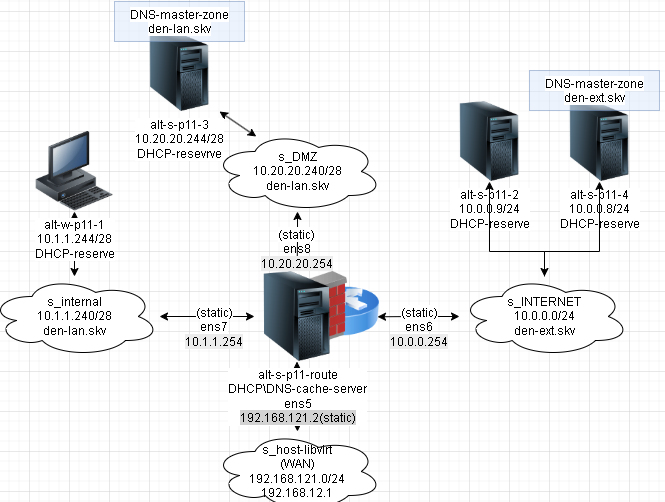
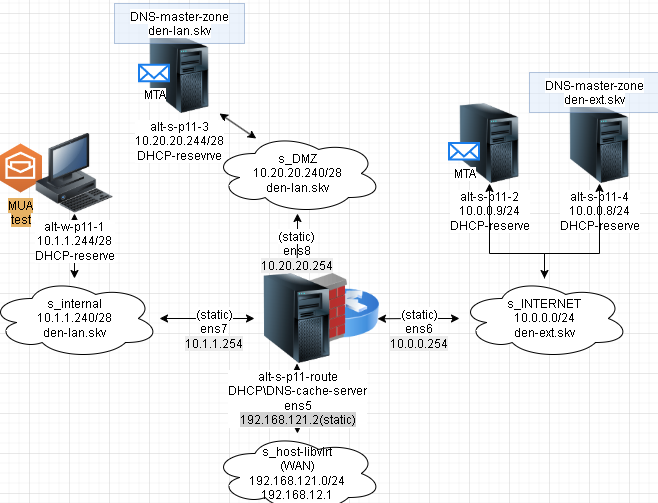
оформление для ADM6, lab5 mailed

diff --git a/adm6/lab5/README.md b/adm6/lab5/README.md
@@ -751,7 +751,9 @@ sadmin@10.1.1.244 \
 
 apt-get update \
 && apt-get install -y \
-bind-utils
+bind-utils \
+postfix \
+mailx
 
 # установка имени узла с доменным суффиксом 
 hostnamectl hostname \
@@ -772,7 +774,7 @@ host ya.ru
 #### Настройка hostname
 ```bash
 # вход на
-### 10.0.0.9 - alt-w-p11-1 - internal
+### 10.0.0.9 - alt-s-p11-2 - s_internet
 ssh -t \
 -i ~/.ssh/id_alt-adm6_2026_host_ed25519 \
 -J sadmin@192.168.121.2 \
@@ -790,9 +792,11 @@ den-ext.skv
 
 apt-get update \
 && apt-get install -y \
-bind-utils
+bind-utils \
+postfix \
+mailx
 
-# проверка с клиентского хоста alt-w-p11-1
+# проверка с клиентского хоста alt-s-p11-2
 cat /etc/resolv.conf
 host den-ext.skv
 host den-lan.skv
@@ -817,6 +821,174 @@ git add . .. ../.. \
 git remote -v
 
 git commit -am 'оформление для ADM6, lab5 dns_master_ext_upd3' \
+&& git push \
+--set-upstream \
+altlinux \
+main \
+&& git push \
+--set-upstream \
+altlinux_gf \
+main
+```
+
+### на узле alt-s-p11-3 (`s_dmz`) 
+#### Настройка postfix в режиме сервера для домена den-lan.skv
+```bash
+# вход на
+### 10.20.20.244 - alt-s-p11-3 - DMZ
+ssh -t \
+-i ~/.ssh/id_alt-adm6_2026_host_ed25519 \
+-J sadmin@192.168.121.2 \
+-o StrictHostKeyChecking=accept-new \
+sadmin@10.20.20.244 \
+"su -"
+
+apt-get update \
+&& apt-get install -y \
+bind-utils \
+postfix \
+mailx
+
+# первый запуск службы для инициализации службы
+systemctl start \
+postfix \
+&& systemctl stop \
+postfix
+
+# перевод в режим сервера
+control postfix \
+server
+
+# Включаем  и запускам службу
+systemctl enable --now \
+postfix
+
+#  Проверки запуска
+## ищем по конфигу разрешение на запуск smtpd
+grep -v "^#" /etc/postfix/master.cf \
+| grep "smtpd"
+
+## ищем слушающий порт запущенной службы
+ss -tulpn \
+| grep 0:25
+
+## сверяемся что для alt-s-p11-3 выводит den-lan.skv домен
+postconf mydomain
+
+postconf mynetworks
+
+# добавляем для отработки с переменной $mydomain 
+echo 'mydestination = $mydomain, $myhostname, localhost.$mydomain, localhost, $config_directory/mydestination' \
+>> /etc/postfix/main.cf
+
+postconf mydestination
+
+echo 'myorigin = $mydomain' \
+>> /etc/postfix/main.cf
+
+postconf myorigin
+
+# первый запуск службы для инициализации службы
+systemctl restart \
+postfix
+```
+
+### на узле alt-s-p11-2 (`s_internet`) 
+#### Настройка postfix в режиме сервера для домена den-ext.skv
+```bash
+# вход на
+### 10.0.0.9 - alt-s-p11-2 - DMZ
+ssh -t \
+-i ~/.ssh/id_alt-adm6_2026_host_ed25519 \
+-J sadmin@192.168.121.2 \
+-o StrictHostKeyChecking=accept-new \
+sadmin@10.0.0.9 \
+"su -"
+
+apt-get update \
+&& apt-get install -y \
+bind-utils \
+postfix \
+mailx
+
+# первый запуск службы для инициализации службы
+systemctl start \
+postfix \
+&& systemctl stop \
+postfix
+
+# перевод в режим сервера
+control postfix \
+server
+
+# Включаем  и запускам службу
+systemctl enable --now \
+postfix
+
+#  Проверки запуска
+## ищем по конфигу разрешение на запуск smtpd
+grep -v "^#" /etc/postfix/master.cf \
+| grep "smtpd"
+
+## ищем слушающий порт запущенной службы
+ss -tulpn \
+| grep 0:25
+
+## сверяемся что для alt-s-p11-2 выводит den-ext.skv домен
+postconf mydomain
+
+postconf mynetworks
+
+# добавляем для отработки с переменной $mydomain 
+echo 'mydestination = $mydomain, $myhostname, localhost.$mydomain, localhost, $config_directory/mydestination' \
+>> /etc/postfix/main.cf
+
+postconf mydestination
+
+echo 'myorigin = $mydomain' \
+>> /etc/postfix/main.cf
+
+postconf myorigin
+
+# первый запуск службы для инициализации службы
+systemctl restart \
+postfix
+```
+
+![](img/5.png)
+
+#### Проверка отправки почты
+```bash
+mail -s 'MAIL TEST2' sadmin@den-ext.skv
+
+Кто стучится в дверь ко мне
+С толстой сумкой на ремне,
+С цифрой 5 на медной бляшке,
+В синей форменной фуражке?
+Это он,
+Это он,
+Ленинградский почтальон.
+^d
+```
+
+![](img/6.png) ![](img/7.png)
+
+##### Для github и gitflic
+```bash
+git log --oneline
+
+git branch -v
+
+git switch main
+
+git status
+
+git add . .. ../.. \
+&& git status
+
+git remote -v
+
+git commit -am 'оформление для ADM6, lab5 mailed' \
 && git push \
 --set-upstream \
 altlinux \
